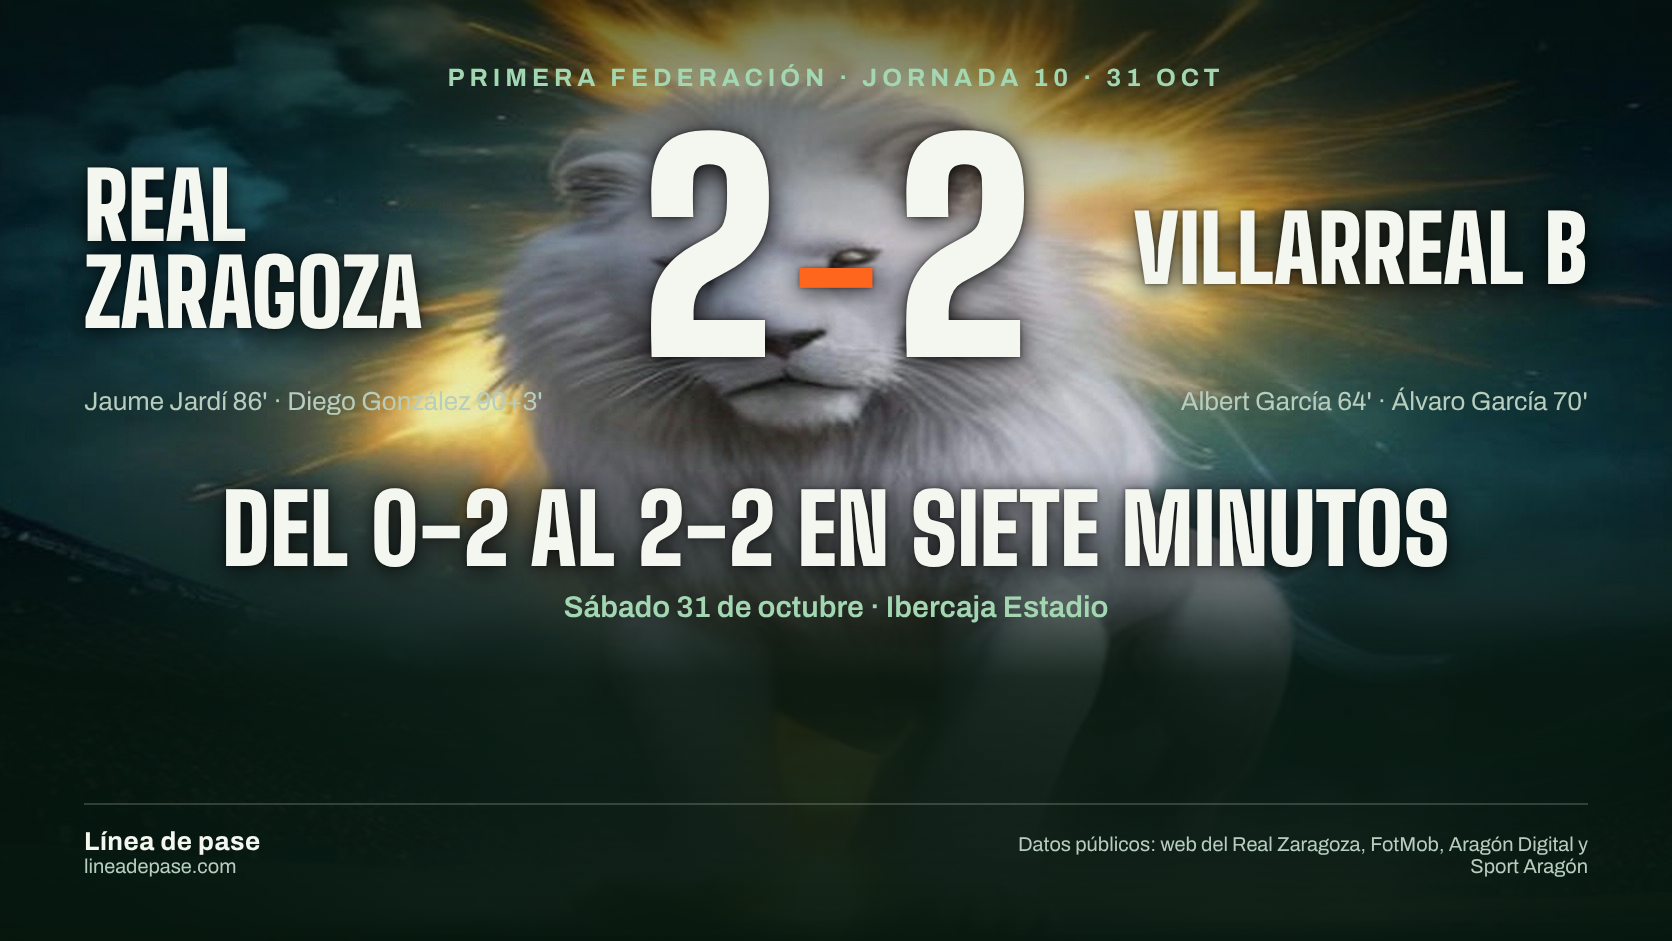
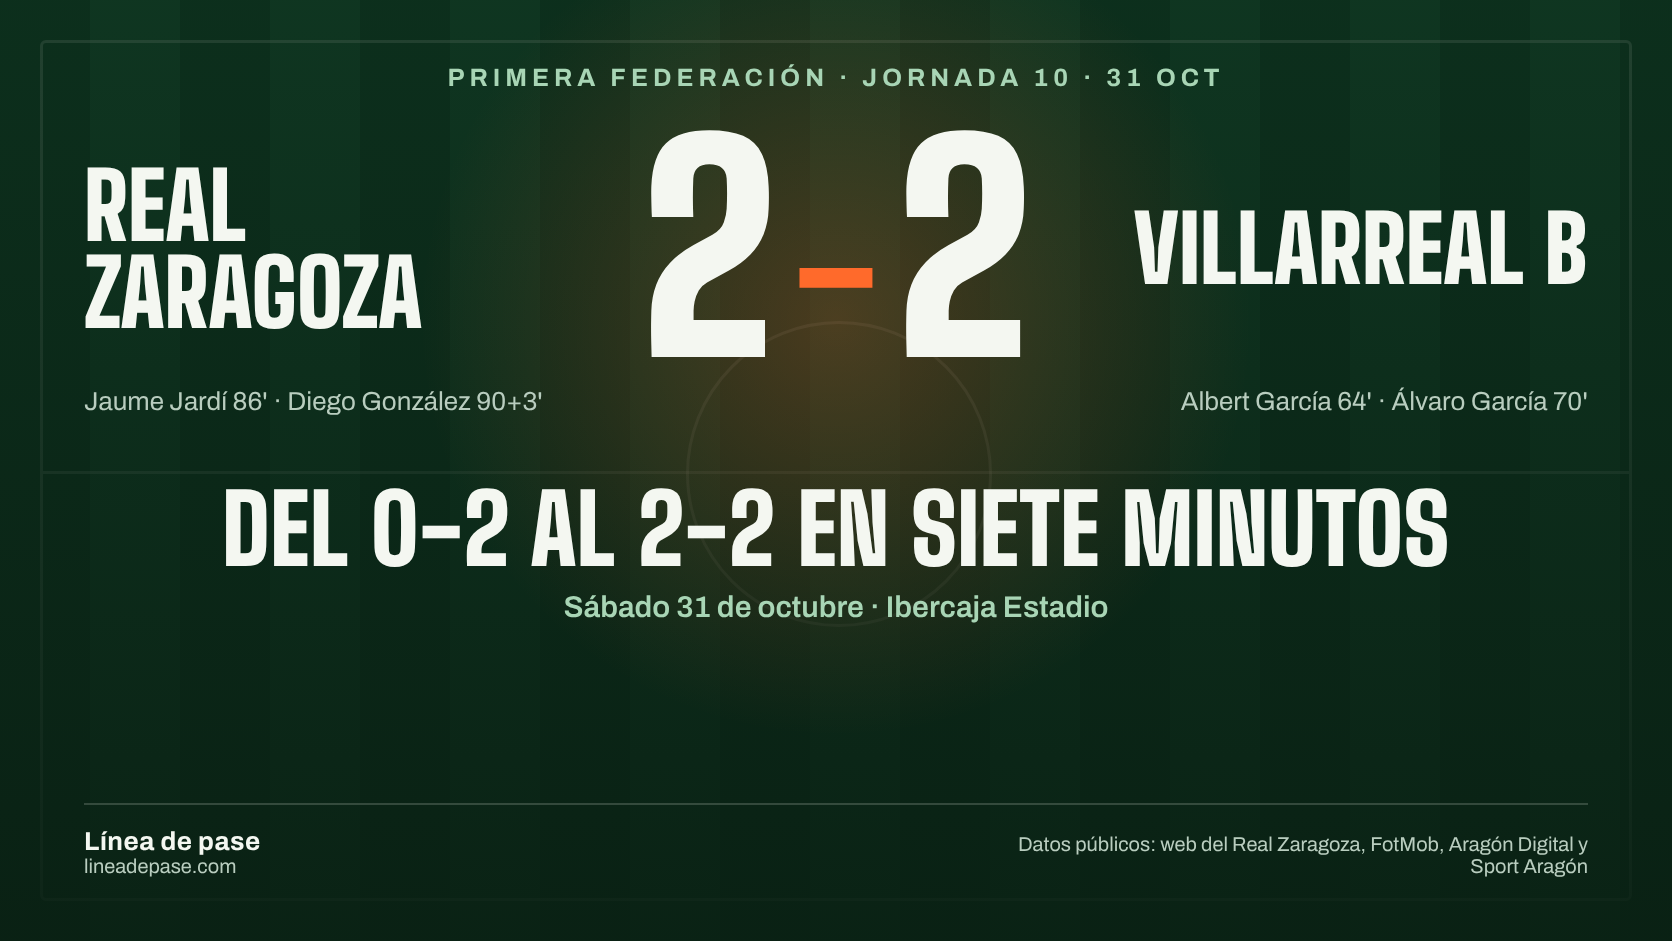
Ilustraciones con idea propia de cada partido y clave gratuita opcional del generador

diff --git a/analisis/real-zaragoza/codigo/ilustracion_ia.py b/analisis/real-zaragoza/codigo/ilustracion_ia.py
@@ -1,31 +1,32 @@
 """
-Ilustración generada con IA para las previas y los resultados (gratuita, sin cuenta).
+Ilustración generada con IA para las previas y los resultados (gratuita).
 
-Pide la imagen al servicio público de Pollinations (https://image.pollinations.ai),
-que genera con modelos abiertos a partir de una descripción. El dominio
-image.pollinations.ai tiene que estar permitido en el entorno.
+Pide la imagen a Pollinations a partir de una descripción escrita para cada partido.
+Con la variable de entorno POLLINATIONS_KEY (clave gratuita de https://enter.pollinations.ai)
+usa gen.pollinations.ai y un modelo de calidad (por defecto zimage). Sin clave usa el
+servicio anónimo image.pollinations.ai, de calidad mucho menor. El dominio usado tiene
+que estar permitido en el entorno. La clave no se guarda nunca en el repositorio.
 
-Uso, desde la raíz del repositorio. Lo normal es una escena temática del partido,
-construida con textos/temas_ilustracion.json (león de Zaragoza frente a los
-colores del rival, según el resultado o la previa) y un momento propio del partido:
+Cada partido lleva su propia idea visual, sacada de lo que pasó (resultado) o de lo que
+está en juego (previa), y distinta de la idea de la imagen de su previa. Los colores y
+símbolos contrastados de cada rival están en textos/temas_ilustracion.json.
+
+Uso, desde la raíz del repositorio:
     python analisis/real-zaragoza/codigo/ilustracion_ia.py \
-        --rival "Villarreal B" --estado empate \
-        --momento "orange fire in the stands" \
+        --descripcion "a giant hourglass on a floodlit football pitch ..." \
         --formato vertical --salida analisis/real-zaragoza/codigo/recursos/ilustraciones/j10-vertical.jpg
-Con --descripcion se puede escribir la escena completa a mano.
-Conviene probar varias semillas y quedarse con la mejor.
+Conviene probar varias semillas, de una en una, y quedarse con la mejor.
 
 Formatos: vertical (1080 × 1350, redes) y panoramica (1672 × 941, web).
 Con --webp guarda además una copia .webp de menos de 600 KB para la web.
 
-La descripción se completa siempre con el estilo de Línea de pase y con la
-prohibición de texto, escudos, logotipos y personas reales. La imagen hay que
-mirarla antes de usarla: el script no puede saber si tiene defectos.
+La descripción se completa con la prohibición de texto, escudos, logotipos y personas
+reales. La imagen hay que mirarla antes de usarla: el script no puede saber si tiene defectos.
 """
 
 import argparse
-import json
 import io
+import os
 import random
 import sys
 import time
@@ -35,48 +36,42 @@ from pathlib import Path
 
 from PIL import Image
 
-TEMAS = Path(__file__).resolve().parents[1] / "textos" / "temas_ilustracion.json"
-ESTILO = (" Epic cinematic poster art for a football match, set in a packed football stadium at night with floodlights, "
-          "vivid saturated colours, teal and orange light, dramatic lighting, high contrast, dynamic composition, "
-          "main subject in the upper-middle part, darker area at the bottom for headline text. "
-          "Absolutely no text, no letters, no numbers, no logos, no club crests, no badges, no watermarks, no real people.")
+ESTILO = (" Highly detailed cinematic digital illustration, vivid colours, dramatic lighting, sharp focus, "
+          "clear readable main subject, darker area at the bottom for headline text. "
+          "No text, no letters, no numbers, no logos, no club crests, no badges, no watermarks, no real people.")
 FORMATOS = {"vertical": (1080, 1350), "panoramica": (1672, 941)}
 
 
-def escena(rival, estado, momento=""):
-    """Escena temática: el león de Zaragoza frente a los colores del rival, según el resultado o la previa."""
-    temas = json.loads(TEMAS.read_text(encoding="utf-8"))
-    colores = temas["rivales"].get(rival, "dark storm-grey")
-    texto = (f"Epic poster art: {temas['zaragoza']} " + temas["estados"][estado].format(c=colores)
-             + ", over a football pitch in a packed stadium at night")
-    return texto + (f", {momento}" if momento else "")
-
-
-def generar(descripcion, ancho, alto, semilla, intentos=3):
-    prompt = descripcion.strip() + ESTILO
-    url = ("https://image.pollinations.ai/prompt/" + urllib.parse.quote(prompt) + "?"
-           + urllib.parse.urlencode({"width": ancho, "height": alto, "seed": semilla,
-                                     "model": "flux", "nologo": "true", "enhance": "false"}))
+def generar(descripcion, ancho, alto, semilla, modelo, intentos=3):
+    prompt = urllib.parse.quote(descripcion.strip() + ESTILO)
+    clave = os.environ.get("POLLINATIONS_KEY", "").strip()
+    parametros = {"width": ancho, "height": alto, "seed": semilla, "nologo": "true"}
+    cabeceras = {"User-Agent": "lineadepase"}
+    if clave:
+        url = f"https://gen.pollinations.ai/image/{prompt}?" + urllib.parse.urlencode({**parametros, "model": modelo})
+        cabeceras["Authorization"] = f"Bearer {clave}"
+    else:
+        url = f"https://image.pollinations.ai/prompt/{prompt}?" + urllib.parse.urlencode(
+            {**parametros, "model": "flux", "enhance": "false"})
     ultimo = None
     for intento in range(1, intentos + 1):
         try:
-            with urllib.request.urlopen(urllib.request.Request(url, headers={"User-Agent": "lineadepase"}),
-                                        timeout=180) as r:
+            with urllib.request.urlopen(urllib.request.Request(url, headers=cabeceras), timeout=240) as r:
                 datos = r.read()
-            imagen = Image.open(io.BytesIO(datos)).convert("RGB")
-            return imagen
+            return Image.open(io.BytesIO(datos)).convert("RGB"), bool(clave)
         except Exception as exc:          # servicio gratuito: puede fallar o tardar
             ultimo = exc
-            time.sleep(10 * intento)
+            time.sleep(15 * intento)
     raise SystemExit(f"No se pudo generar la ilustración: {ultimo}")
 
 
-def ajustar(imagen, ancho, alto):
-    """Quita la franja inferior (marca del servicio gratuito), recorta al centro y escala."""
+def ajustar(imagen, ancho, alto, con_marca):
+    """Quita la franja inferior si trae la marca del servicio anónimo, recorta al centro y escala."""
     proporcion = ancho / alto
     w, h = imagen.size
-    h = int(h * 0.92)
-    imagen = imagen.crop((0, 0, w, h))
+    if con_marca:
+        h = int(h * 0.92)
+        imagen = imagen.crop((0, 0, w, h))
     if w / h > proporcion:
         nuevo = int(h * proporcion)
         imagen = imagen.crop(((w - nuevo) // 2, 0, (w - nuevo) // 2 + nuevo, h))
@@ -88,26 +83,21 @@ def ajustar(imagen, ancho, alto):
 
 def main():
     p = argparse.ArgumentParser(description=__doc__, formatter_class=argparse.RawDescriptionHelpFormatter)
-    p.add_argument("--descripcion", help="Escena completa escrita a mano (en inglés funciona mejor)")
-    p.add_argument("--rival", help="Rival, como en partidos.csv o proximos.csv")
-    p.add_argument("--estado", choices=["victoria", "empate", "derrota", "previa"])
-    p.add_argument("--momento", default="", help="Detalle propio del partido, en inglés")
+    p.add_argument("--descripcion", required=True, help="Escena del partido, en inglés")
     p.add_argument("--formato", choices=FORMATOS, default="vertical")
     p.add_argument("--salida", required=True)
     p.add_argument("--semilla", type=int, default=None)
+    p.add_argument("--modelo", default="zimage", help="Modelo de gen.pollinations.ai (solo con clave)")
     p.add_argument("--webp", action="store_true")
     a = p.parse_args()
-    if not a.descripcion:
-        if not (a.rival and a.estado):
-            p.error("usa --descripcion o bien --rival y --estado")
-        a.descripcion = escena(a.rival, a.estado, a.momento)
     ancho, alto = FORMATOS[a.formato]
     semilla = a.semilla if a.semilla is not None else random.randint(1, 999_999)
-    imagen = ajustar(generar(a.descripcion, ancho, alto, semilla), ancho, alto)
+    imagen, con_clave = generar(a.descripcion, ancho, alto, semilla, a.modelo)
+    imagen = ajustar(imagen, ancho, alto, con_marca=not con_clave)
     salida = Path(a.salida)
     salida.parent.mkdir(parents=True, exist_ok=True)
     imagen.save(salida, quality=92)
-    print(f"Ilustración guardada en {salida} (semilla {semilla})")
+    print(f"Ilustración guardada en {salida} (semilla {semilla}, {'con clave' if con_clave else 'sin clave'})")
     if a.webp:
         calidad = 86
         ruta = salida.with_suffix(".webp")
